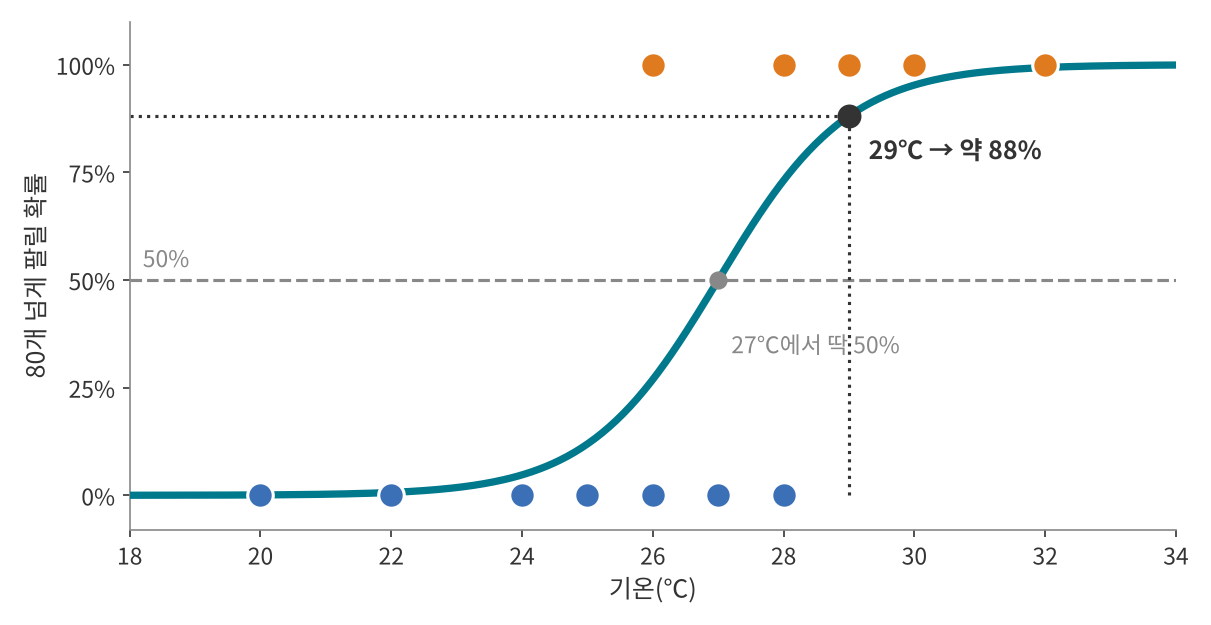
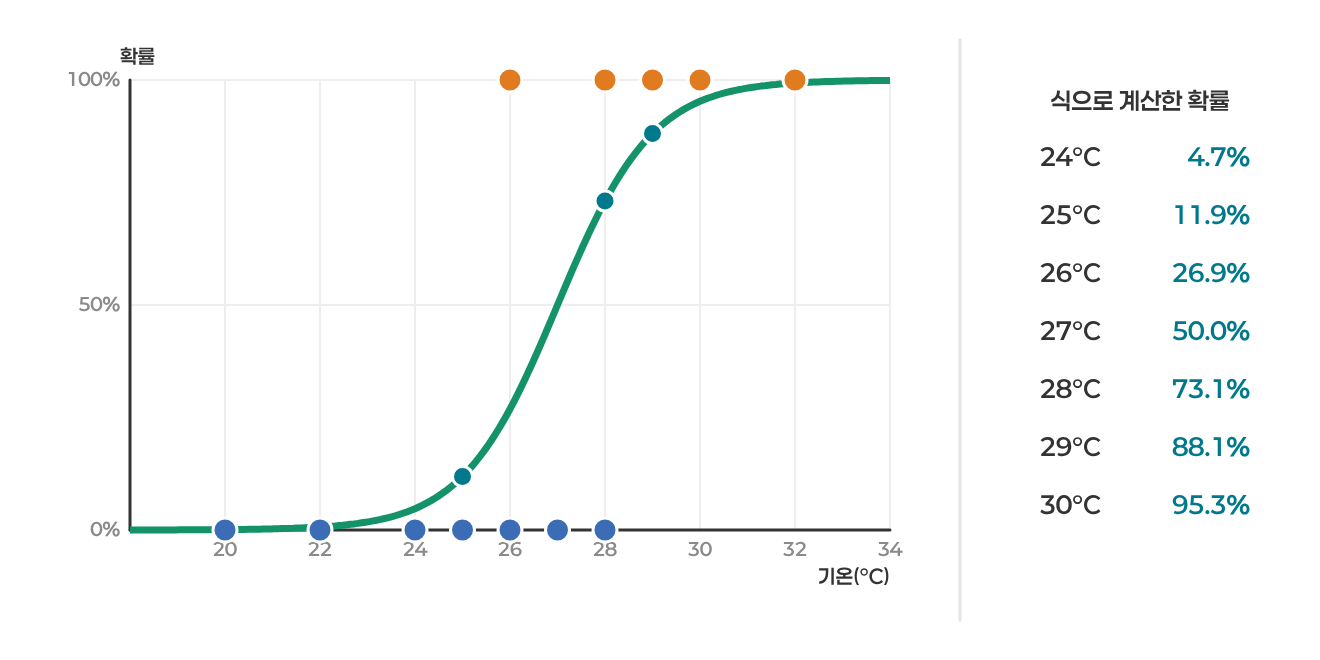
AI-145: 블로그 그림 새 그림체로 다시 그림, 세 개념 요약 → 4컷 순서 → 개념별 깊이 구조, 개념편 개편 번호에 맞춰 참조 고침(팀장님 2026-11-24 15:07)
Claude-Session: https://claude.ai/code/session_01DR6nsVNAeEXLhn9YQGXxtx

diff --git a/인공지능 145 로지스틱 회귀 계산편/index.md b/인공지능 145 로지스틱 회귀 계산편/index.md
@@ -31,13 +31,34 @@ summary: "로지스틱 회귀 계산편에서는 개념편의 S자 곡선을 식
 
 개념편에서는 곡선을 그림으로 읽었어요. 컴퓨터는 곡선을 그림으로 읽지 않고 숫자로 계산해요. 그 방법을 한 단계씩 볼게요.
 
-## 2. 세 단계: 점수 → 확률 → 판단
+## 2. 계산에 쓰는 세 가지 개념
 
-![숫자로 계산하는 세 단계](lg12_flow.png)
+이 계산은 세 가지 개념만 알면 따라갈 수 있어요.
 
-1. **점수 만들기:** 기온을 점수로 바꿔요. 이 강좌에서 점수는 "27℃보다 몇 도 더운지"예요.
-2. **점수를 확률로 바꾸기:** S자 곡선의 식에 점수를 넣어요.
-3. **기준과 비교하기:** 확률이 기준(보통 50%)을 넘으면 "예"예요.
+![계산에 쓰는 세 가지 개념](kc1_concepts.png)
+
+| 개념 | 한 줄 설명 | 이 강좌의 숫자 |
+| --- | --- | --- |
+| 개념 1. 점수(로짓) | 기온을 점수로 바꿔요. 점수 = a × 기온 + b | 점수 = 기온 − 27 |
+| 개념 2. 점수 → 확률 | S자 곡선 식에 점수를 넣어 0%~100% 사이 확률로 바꿔요. 확률 = 1 ÷ (1 + e⁻점수) | 점수 2 → 88% |
+| 개념 3. 벌점으로 채점 | 날마다 정답에 준 확률로 벌점을 매기고, 합이 가장 작은 곡선을 골라요. 벌점 = −ln(정답에 준 확률) | 12일 벌점 합 약 4.22 |
+
+## 3. 세 개념으로 계산하는 순서
+
+![네 컷으로 보는 계산 순서: 점수, 확률, 기준, 벌점](kc2_comic.png)
+
+세 개념을 차례로 이으면 계산 순서가 돼요.
+
+1. 기온을 점수로 바꿔요. 29℃면 29 − 27 = 2예요(개념 1).
+2. 점수를 S자 곡선 식에 넣어 확률로 바꿔요. 점수 2면 약 88%예요(개념 2).
+3. 확률을 기준(보통 50%)과 비교해요. 88%는 50%보다 크니 '예'예요.
+4. 곡선이 기록에 얼마나 맞는지 벌점으로 채점해서, 벌점 합이 가장 작은 a와 b를 골라요(개념 3).
+
+아래 4장에서는 세 개념을 하나씩 숫자로 따라가 볼게요.
+
+## 4. 개념 하나씩 더 들여다보기
+
+### 4-1. 개념 1: 기온을 점수로 바꿔요
 
 점수는 이렇게 바뀌어요.
 
@@ -45,11 +66,30 @@ summary: "로지스틱 회귀 계산편에서는 개념편의 S자 곡선을 식
 | --- | --- | --- | --- | --- | --- | --- |
 | 점수(기온 − 27) | −3 | −1 | 0 | 1 | 2 | 3 |
 
-27℃를 빼는 이유는 27℃가 예와 아니오가 반반이 되는 기온이기 때문이에요. 이 27을 어떻게 찾는지는 6장과 7장에서 봐요.
+27℃를 빼는 이유는 27℃가 예와 아니오가 반반이 되는 기온이기 때문이에요. 이 27을 어떻게 찾는지는 아래 손잡이 식과 4-4의 채점에서 봐요.
 
-## 3. 점수를 확률로 바꾸기
+![S자 곡선의 두 손잡이](lg13_knobs.png)
 
-### 3-1. S자 곡선의 식
+개념편 5-5의 두 손잡이를 식에 넣으면 점수는 이렇게 생겼어요.
+
+$$
+\text{점수} = \text{가파름} \times (\text{기온} - \text{반반 기온})
+$$
+
+- 반반 기온은 확률이 50%가 되는 기온이에요. 점수가 0이 되는 곳이에요.
+- 가파름은 기온이 1℃ 오를 때 점수가 얼마나 오르는지예요.
+
+지금까지 쓴 "기온 − 27"은 반반 기온 27, 가파름 1인 경우예요. 괄호를 풀면 선형 회귀와 같은 직선 모양이 돼요.
+
+$$
+\text{점수} = a \times \text{기온} + b
+$$
+
+a는 가파름, b는 −(가파름 × 반반 기온)이에요. 컴퓨터로 12일 기록에 맞추면 a ≈ 0.992, b ≈ −27.145가 나와요. 반반 기온은 27.145 ÷ 0.992 ≈ 27.4℃예요. 이 강좌에서는 계산하기 쉽게 a = 1, b = −27로 썼어요.
+
+### 4-2. 개념 2: 점수를 확률로 바꿔요
+
+**S자 곡선의 식**
 
 ![점수를 확률로 바꾸는 S자 곡선](lg4_sigmoid.png)
 
@@ -67,15 +107,15 @@ e는 약 2.718인 수학 상수예요. 계산기의 eˣ 버튼으로 구할 수 
 2. 1 + 0.135 = 1.135
 3. 1 ÷ 1.135 ≈ 0.88, 곧 88%
 
-### 3-2. 왜 항상 0%와 100% 사이일까요?
+**왜 항상 0%와 100% 사이일까요?**
 
 - 점수가 아주 크면 e⁻점수가 0에 가까워져요. 그러면 확률은 1 ÷ (1 + 0) = 1, 곧 100%에 다가가요.
 - 점수가 아주 작으면 e⁻점수가 아주 커져요. 그러면 분모가 커져서 확률이 0%에 다가가요.
 - 점수가 0이면 e⁰ = 1이라서 확률은 1 ÷ 2 = 50%예요.
 
-그래서 어떤 점수를 넣어도 0%와 100% 사이에 머물러요. 개념편 5-2에서 직선이 −0.45나 1.20처럼 벗어났던 문제가 이렇게 풀려요.
+그래서 어떤 점수를 넣어도 0%와 100% 사이에 머물러요. 개념편 5-4에서 직선이 −0.45나 1.20처럼 벗어났던 문제가 이렇게 풀려요.
 
-### 3-3. 점수 → 확률 환산표
+**점수 → 확률 환산표**
 
 식에 점수를 차례로 넣으면 이런 표가 돼요.
 
@@ -86,7 +126,7 @@ e는 약 2.718인 수학 상수예요. 계산기의 eˣ 버튼으로 구할 수 
 - 점수가 커질수록 덜 올라요. 0에서 1로 갈 때는 23%p가 오르지만 3에서 4로 갈 때는 3%p만 올라요.
 - 양쪽이 마주 봐요. 점수 1은 73%, 점수 −1은 27%라서 합이 100%예요. 식으로 보면 점수 z의 확률과 −z의 확률을 더하면 항상 1이 돼요.
 
-## 4. 직접 계산해 보기
+**기온마다 직접 계산해 보기**
 
 기온마다 점수를 구하고 식에 넣었어요.
 
@@ -100,13 +140,13 @@ e는 약 2.718인 수학 상수예요. 계산기의 eˣ 버튼으로 구할 수 
 | 29℃ | 2 | 0.135 | 0.881 | 예 |
 | 30℃ | 3 | 0.050 | 0.953 | 예 |
 
-개념편 4장의 그래프에서 읽은 값(25℃ 12%, 28℃ 73%, 29℃ 88% 등)이 이렇게 계산돼요.
+개념편 5-1의 그래프에서 읽은 값(25℃ 12%, 28℃ 73%, 29℃ 88% 등)이 이렇게 계산돼요.
 
 ![아이스크림 기록에 맞춘 S자 곡선](lg5_curve.png)
 
-## 5. 거꾸로 계산하기: 오즈와 로짓
+### 4-3. 개념 2 거꾸로: 오즈와 로짓
 
-### 5-1. 식을 거꾸로 풀기
+**식을 거꾸로 풀기**
 
 "확률이 90%가 되려면 몇 ℃일까?"처럼 확률에서 기온을 구할 때는 식을 거꾸로 풀어요.
 
@@ -120,11 +160,11 @@ $$
 2. **점수 구하기:** ln 9 ≈ 2.2. ln은 e를 몇 제곱해야 그 수가 되는지 알려 주는 계산기 버튼이에요. e^2.2 ≈ 9예요.
 3. **기온 구하기:** 점수 = 기온 − 27이니까 기온 = 27 + 2.2 = 29.2℃
 
-### 5-2. 기준을 기온으로 바꾸기
+**기준을 기온으로 바꾸기**
 
 ![기준에 따라 달라지는 판단](lg6_threshold.png)
 
-개념편 6장의 기준 30%와 90%가 몇 ℃인지도 같은 방법으로 구해요.
+개념편 5-6의 기준 30%와 90%가 몇 ℃인지도 같은 방법으로 구해요.
 
 | 기준 | 오즈 | 점수 = ln(오즈) | 기온 |
 | --- | --- | --- | --- |
@@ -132,36 +172,15 @@ $$
 | 50% | 0.5 ÷ 0.5 = 1 | 0 | 27℃ |
 | 90% | 0.9 ÷ 0.1 = 9 | ≈ 2.2 | 27 + 2.2 ≈ 29.2℃ |
 
-### 5-3. 로짓: 점수의 진짜 이름
+**로짓: 점수의 진짜 이름**
 
 이 ln(오즈)를 로그 오즈 또는 로짓(logit)이라고 불러요. 1944년 조지프 버크슨이 지은 이름이에요. 이 강좌의 "점수"가 바로 로짓이에요.
 
 그래서 로지스틱 회귀를 한 줄로 쓰면 "로짓을 입력의 직선으로 나타내는 방법"이에요. 선형 회귀가 판매량을 직선으로 나타냈다면 로지스틱 회귀는 로짓을 직선으로 나타내요.
 
-## 6. 두 손잡이를 식으로 쓰기
+### 4-4. 개념 3: 벌점으로 채점해요(로그 손실)
 
-![S자 곡선의 두 손잡이](lg13_knobs.png)
-
-개념편 7장의 두 손잡이를 식에 넣으면 점수는 이렇게 생겼어요.
-
-$$
-\text{점수} = \text{가파름} \times (\text{기온} - \text{반반 기온})
-$$
-
-- 반반 기온은 확률이 50%가 되는 기온이에요. 점수가 0이 되는 곳이에요.
-- 가파름은 기온이 1℃ 오를 때 점수가 얼마나 오르는지예요.
-
-지금까지 쓴 "기온 − 27"은 반반 기온 27, 가파름 1인 경우예요. 괄호를 풀면 선형 회귀와 같은 직선 모양이 돼요.
-
-$$
-\text{점수} = a \times \text{기온} + b
-$$
-
-a는 가파름, b는 −(가파름 × 반반 기온)이에요. 컴퓨터로 12일 기록에 맞추면 a ≈ 0.992, b ≈ −27.145가 나와요. 반반 기온은 27.145 ÷ 0.992 ≈ 27.4℃예요. 이 강좌에서는 계산하기 쉽게 a = 1, b = −27로 썼어요.
-
-## 7. 채점하기: 로그 손실
-
-### 7-1. 정답에 준 확률로 벌점 매기기
+**정답에 준 확률로 벌점 매기기**
 
 ![정답에 준 확률과 벌점](lg7_penalty.png)
 
@@ -180,7 +199,7 @@ $$
 
 자신 있게 틀릴수록 벌점이 빠르게 커져요. 이 벌점을 로그 손실(log loss)이라고 불러요.
 
-### 7-2. 날짜별 벌점 계산하기
+**날짜별 벌점 계산하기**
 
 곡선 A(반반 27℃, 가파름 1)와 곡선 B(반반 31℃, 가파름 1)가 세 날에 받은 벌점이에요.
 
@@ -190,9 +209,9 @@ $$
 | 27℃ | 아니오 | 0.500 | 0.69 | 0.982 | 0.02 |
 | 30℃ | 예 | 0.953 | 0.05 | 0.269 | 1.31 |
 
-27℃ 줄을 볼게요. 실제로 못 넘은 날이라 정답에 준 확률은 1 − 넘을 확률이에요. A는 넘을 확률이 0.5라서 1 − 0.5 = 0.5, B는 넘을 확률이 σ(27 − 31) = σ(−4) ≈ 0.018이라서 1 − 0.018 = 0.982예요. σ는 3장의 S자 곡선 식을 짧게 쓴 기호예요.
+27℃ 줄을 볼게요. 실제로 못 넘은 날이라 정답에 준 확률은 1 − 넘을 확률이에요. A는 넘을 확률이 0.5라서 1 − 0.5 = 0.5, B는 넘을 확률이 σ(27 − 31) = σ(−4) ≈ 0.018이라서 1 − 0.018 = 0.982예요. σ는 4-2의 S자 곡선 식을 짧게 쓴 기호예요.
 
-### 7-3. 12일 벌점 합 비교하기
+**12일 벌점 합 비교하기**
 
 | 곡선 | 반반 기온 | 가파름 | 12일 벌점 합 |
 | --- | --- | --- | --- |
@@ -205,11 +224,11 @@ B는 반반 기온이 너무 오른쪽이라 26℃의 '예'에 1%도 안 되는 
 
 선형 회귀와 달리 로지스틱 회귀에는 한 번에 답을 내는 공식이 없어서 이렇게 조금씩 고쳐 가는 방법으로 찾아요.
 
-## 8. 입력이 둘일 때
+## 5. 입력이 둘일 때
 
 ![기온과 강수확률로 판단하기(예시 숫자)](lg8_two_inputs.png)
 
-개념편 8장의 기온과 강수확률 예시를 점수로 쓰면 이래요. 예시 숫자예요.
+개념편 6장의 기온과 강수확률 예시를 점수로 쓰면 이래요. 예시 숫자예요.
 
 $$
 \text{점수} = (\text{기온} - 27) - \text{강수확률} \div 10
@@ -229,7 +248,7 @@ $$
 
 이 예시에서는 a₁ = 1(기온), a₂ = −0.1(강수확률), b = −27이에요.
 
-## 9. 한 장 요약
+## 6. 한 장 요약
 
 > 로지스틱 회귀 계산: 점수(로짓)를 직선으로 만들고 S자 곡선 식으로 확률을 계산하기
 >
@@ -239,7 +258,7 @@ $$
 > - 벌점(로그 손실) = −ln(정답에 준 확률), 12일 합이 가장 작은 a와 b를 경사하강법으로 찾는다.
 > - 입력이 여러 개면 점수 = a₁x₁ + a₂x₂ + … + b, 경계(점수 = 0)는 곧은 선(면)
 
-## 10. 셀프 퀴즈
+## 7. 셀프 퀴즈
 
 <b>Q1.</b> 점수 = 기온 − 27일 때 25℃에 80개 넘게 팔릴 확률을 식으로 계산해 보세요.
 
